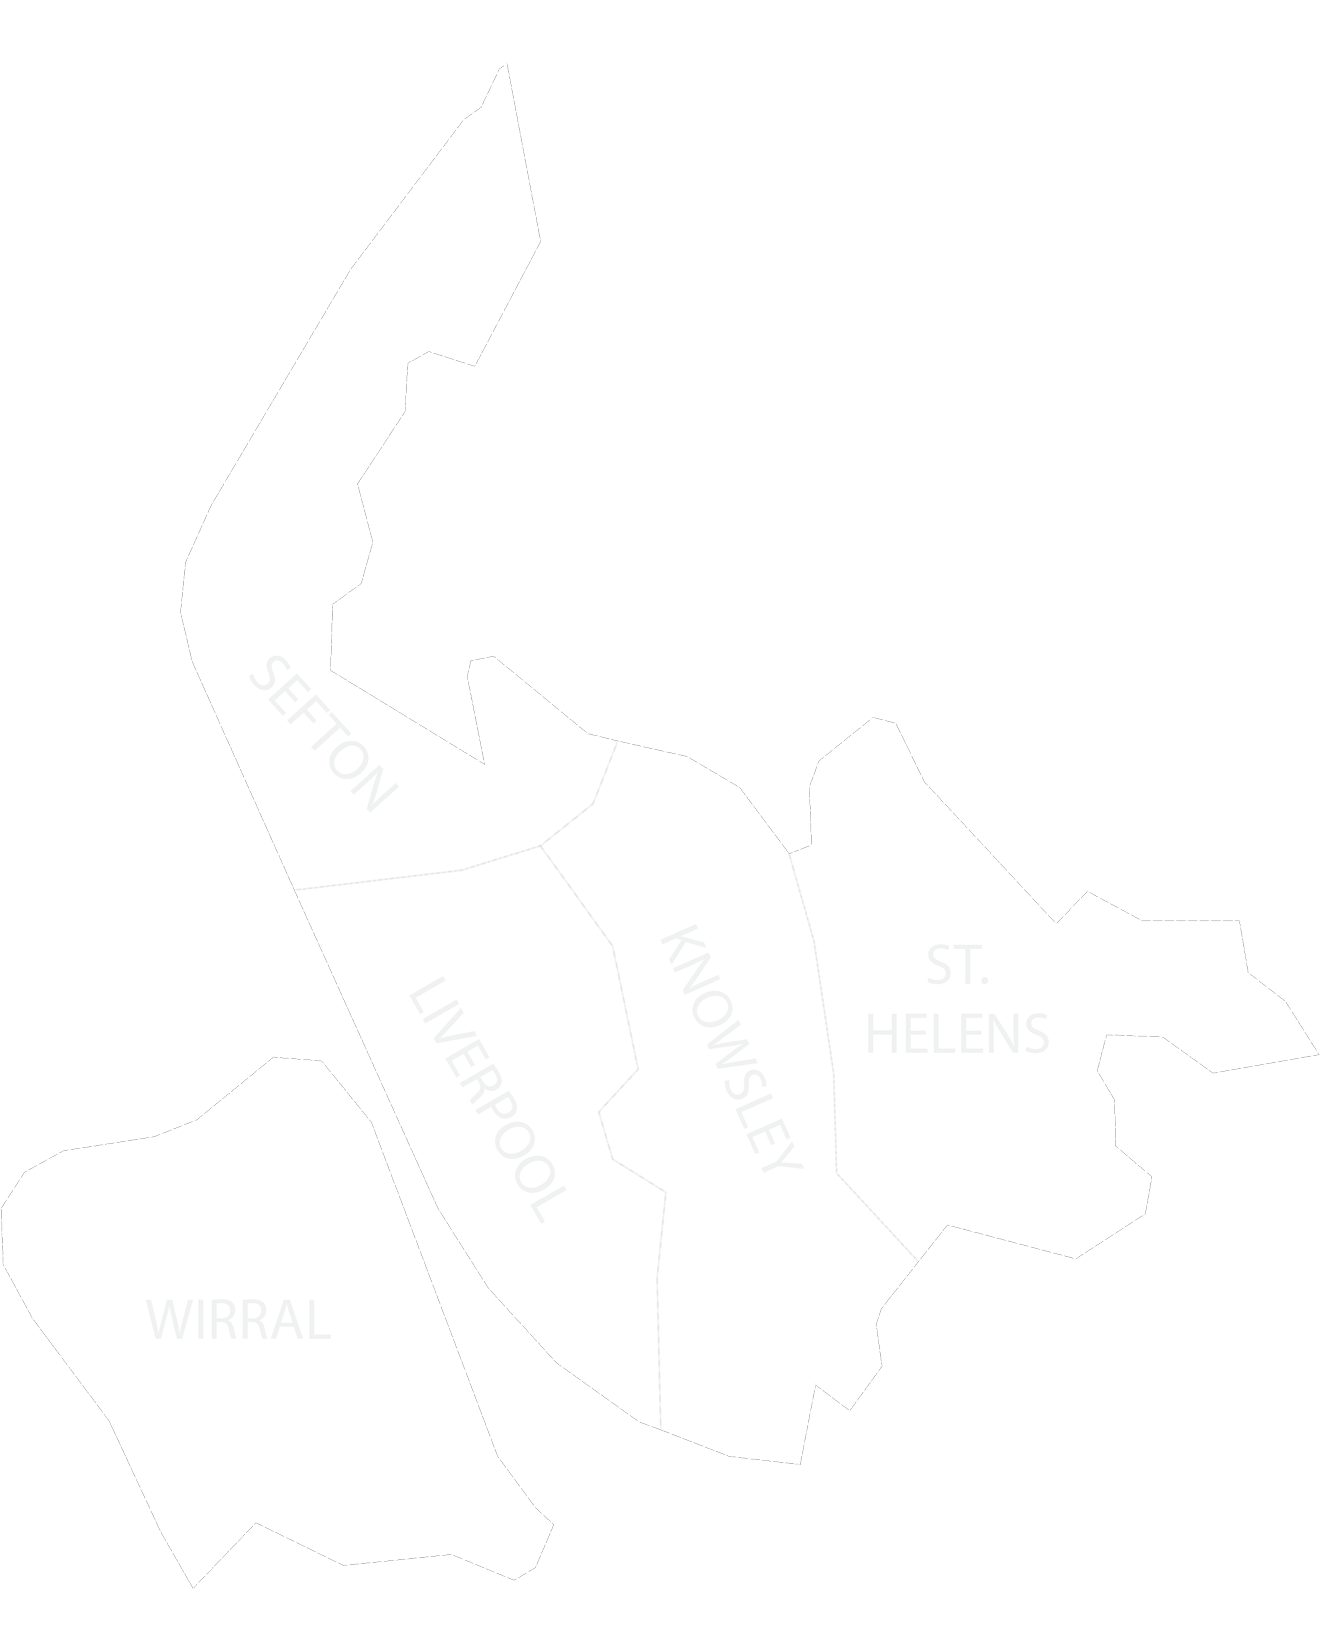
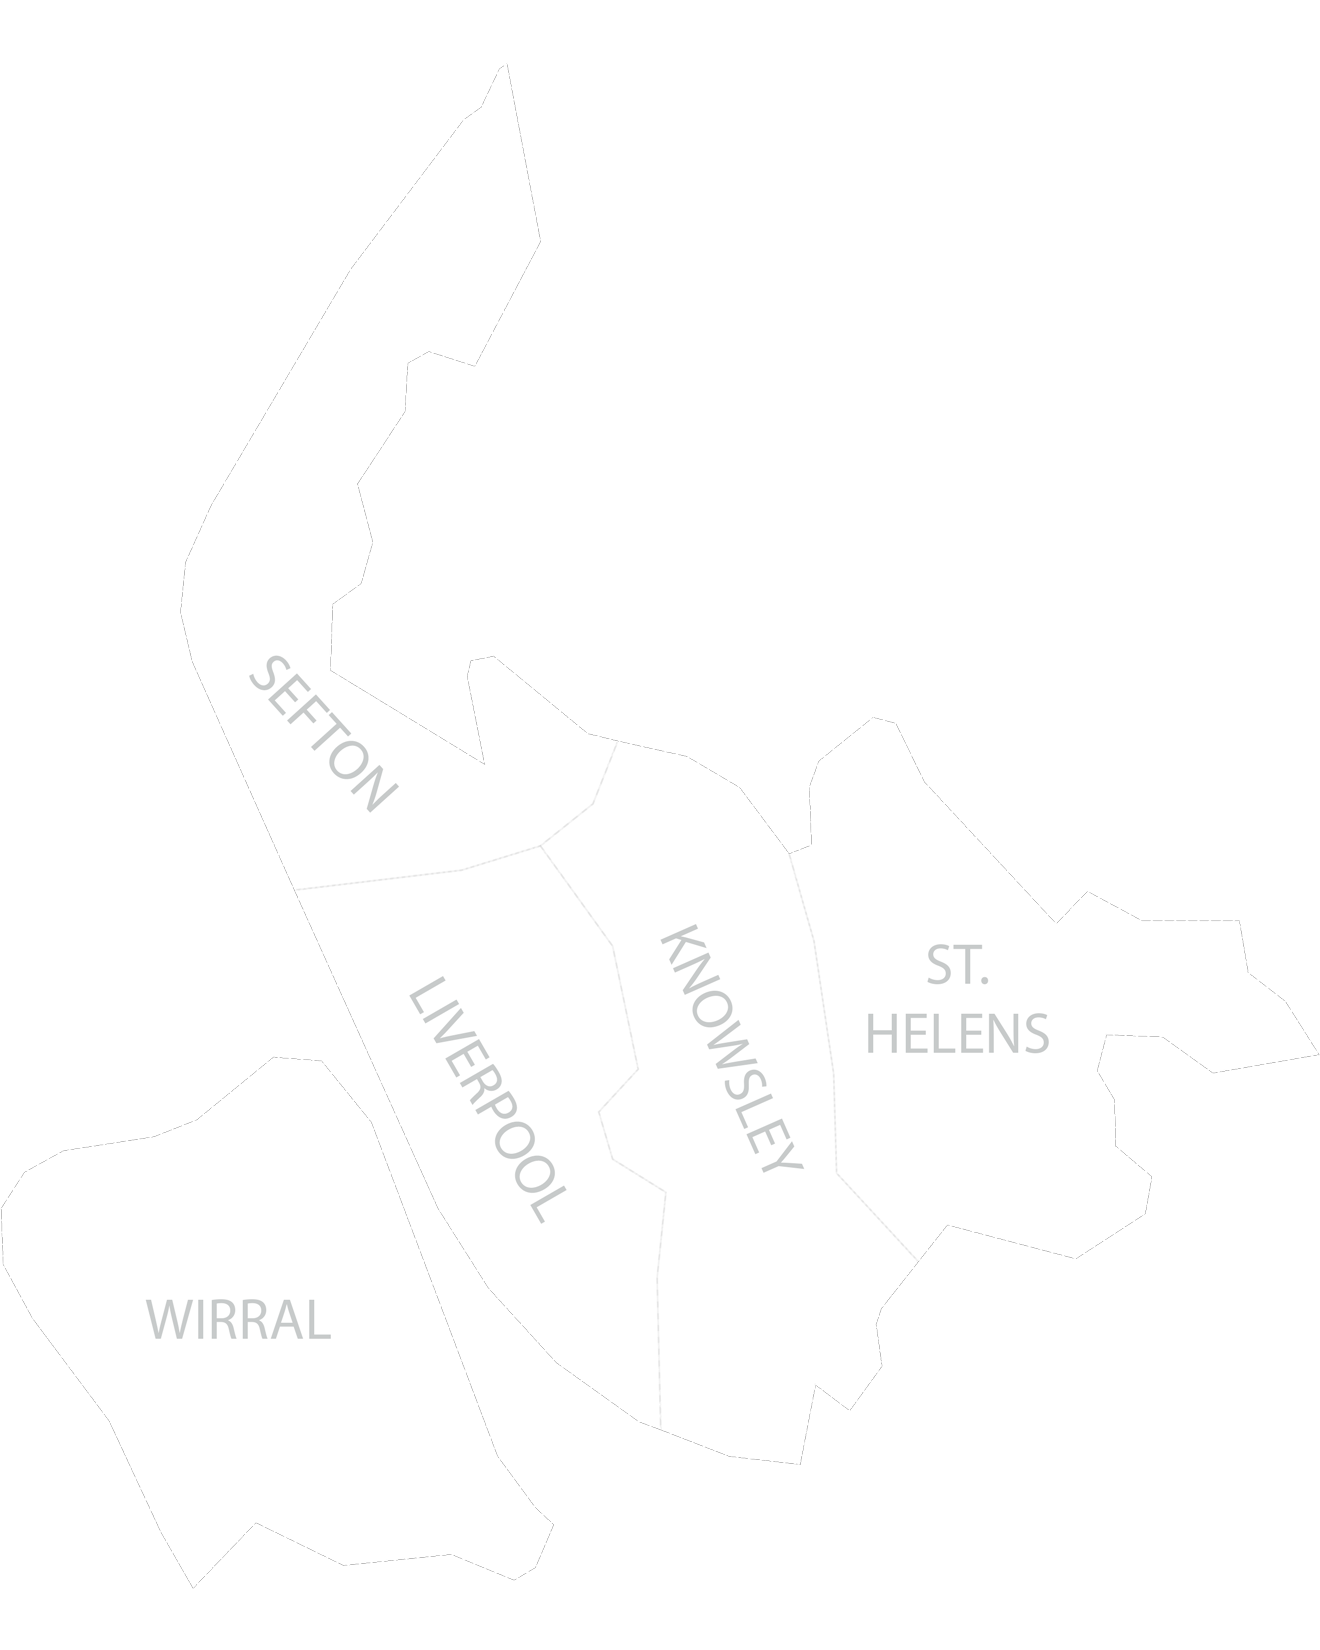
Fix typo. Improve map labels legibility

diff --git a/src/App.tsx b/src/App.tsx
@@ -72,7 +72,7 @@ const TermsAndConditions: React.FunctionComponent<SectionComponentProps> = ({ ch
         </div>
         <FormGroup className="mb-4" check>
           <Input type="checkbox" id="vom-terms-check" checked={agreement} onChange={ e => setAgreement(e.target.checked)}/>
-          <Label for="vom-terms-check" check>I give my permission to participate in this research/project.</Label>
+          <Label for="vom-terms-check" check>I give my permission to participate in this research project.</Label>
         </FormGroup>
         <Button type="button" disabled={!agreement} color={agreement ? 'info' : 'secondary'}  onClick={ () => changePage() }>Next</Button>
       </Form>
